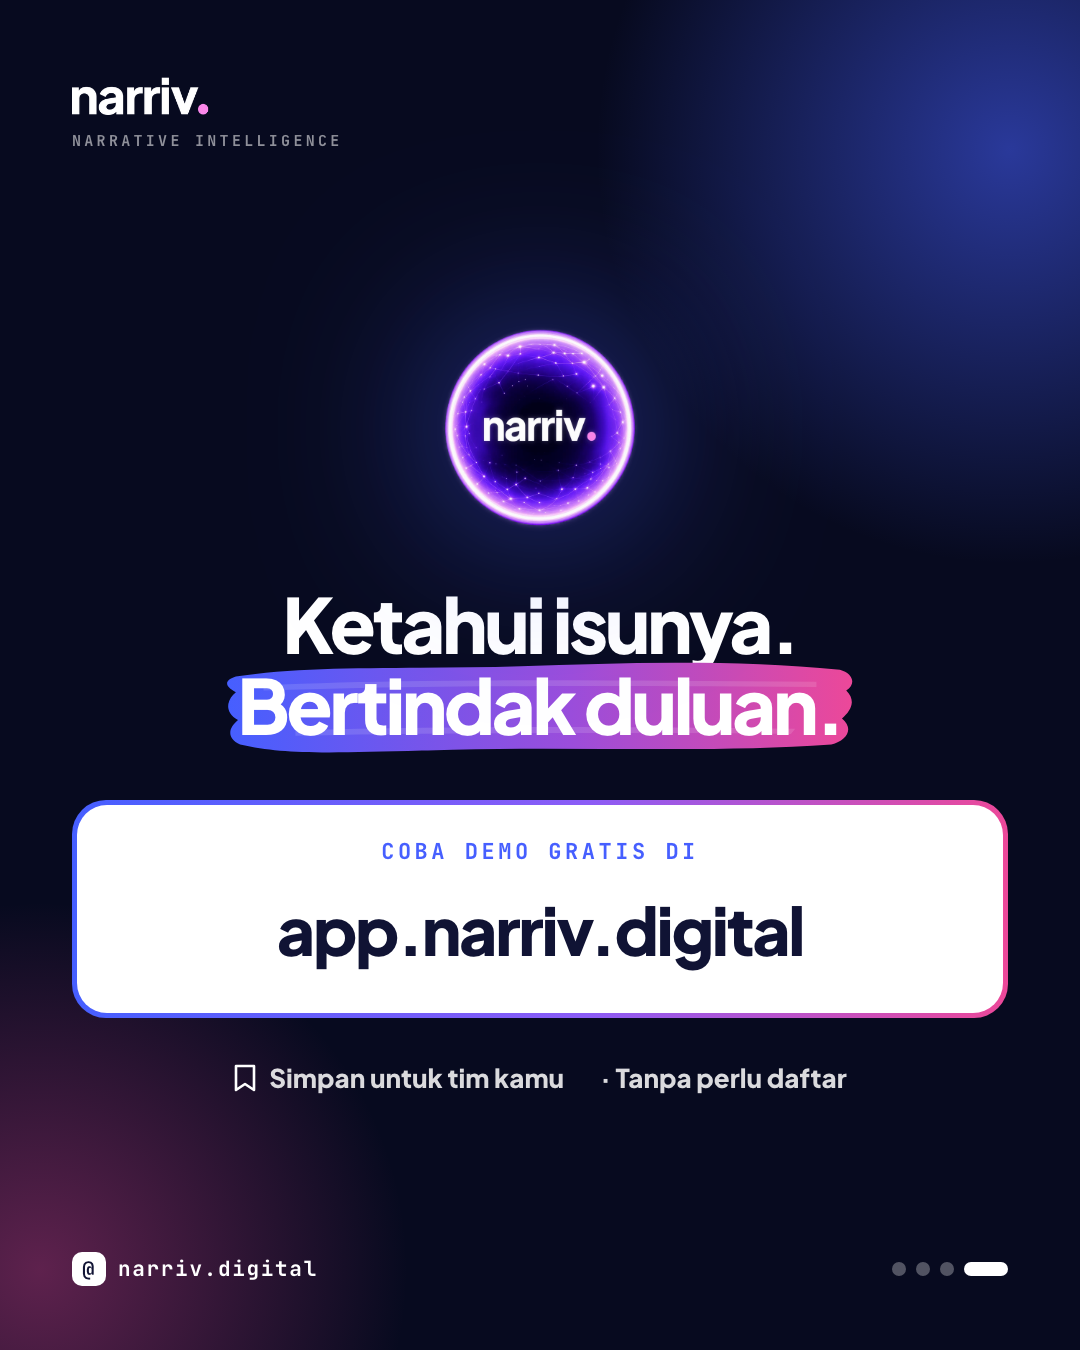
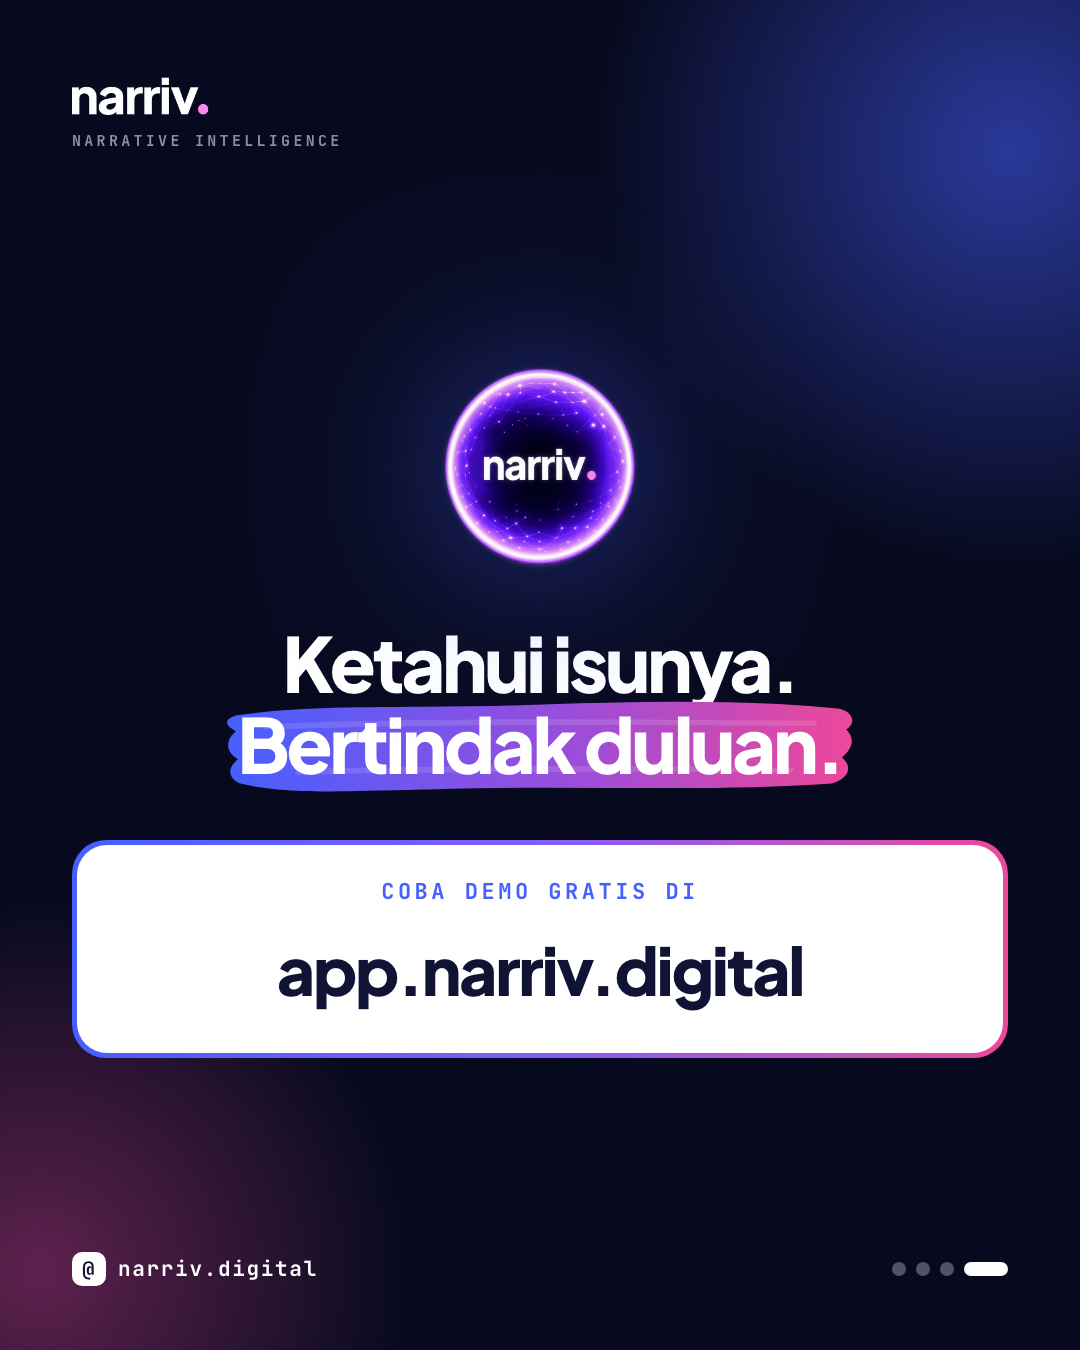
Education closing slide: only the line and the demo address, recentred

Changed region(s): [[0.0611, 0.2178, 0.9472, 0.8089]]

diff --git a/frontend/app/pitch/social/edu/page.tsx b/frontend/app/pitch/social/edu/page.tsx
@@ -92,13 +92,6 @@ const closing = (_topic: string): Slide => ({
           <p style={{ margin: "12px 0 0", fontSize: 66, fontWeight: 800, letterSpacing: "-0.035em" }}>app.narriv.digital</p>
         </div>
       </div>
-      <div style={{ marginTop: 40, display: "flex", justifyContent: "center", gap: 36, fontSize: 26, fontWeight: 800, color: "rgba(255,255,255,.85)" }}>
-        <span style={{ display: "inline-flex", alignItems: "center", gap: 12 }}>
-          <svg width="24" height="30" viewBox="0 0 24 28" aria-hidden><path d="M3 2h18v24l-9-6-9 6z" fill="none" stroke="#fff" strokeWidth="2.6" strokeLinejoin="round" /></svg>
-          Simpan untuk tim kamu
-        </span>
-        <span>· Tanpa perlu daftar</span>
-      </div>
     </>
   ),
 });
